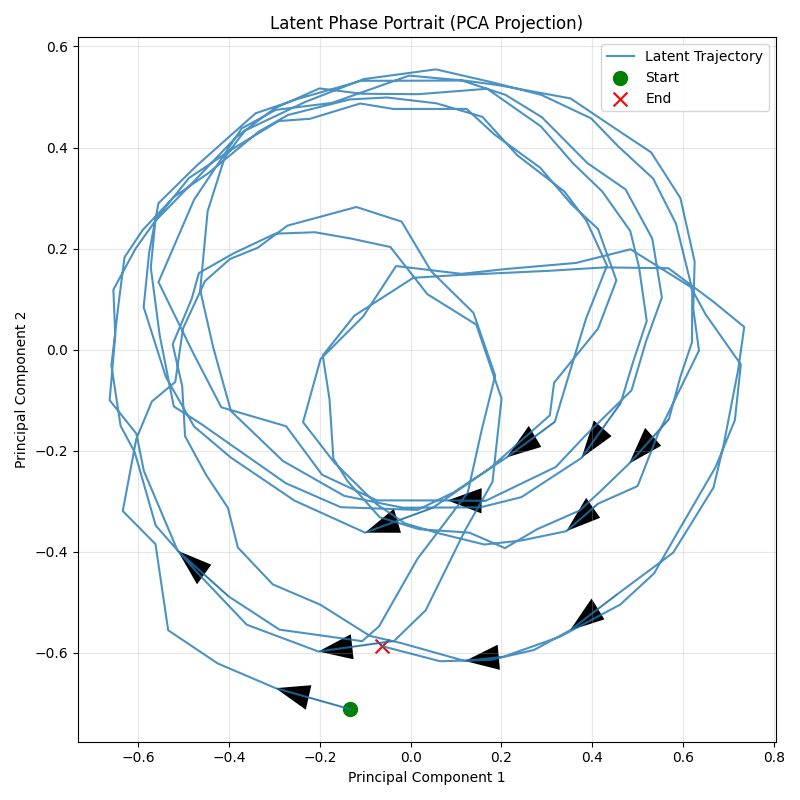
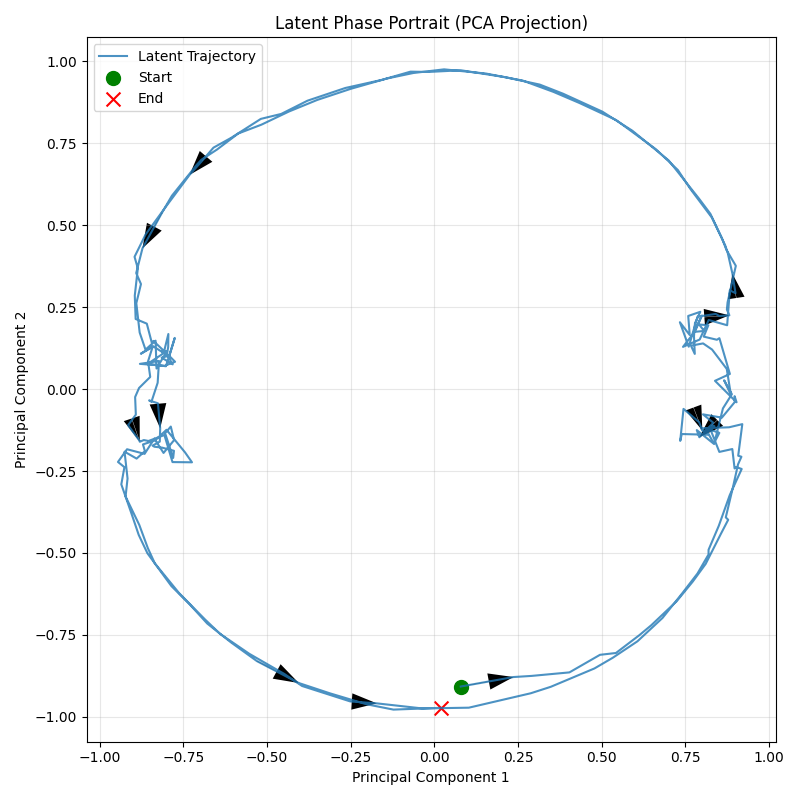
feat: more stable imputation.

diff --git a/main.py b/main.py
@@ -51,48 +51,97 @@ class Dynamics(nn.Module):
     @nn.compact
     def __call__(self, z):
         # z has shape (batch, seq_len, latent_dim)
+        B, T, D = z.shape
 
         # 1. Power-Law Memory Integral (Causal Convolution)
-        # We need to process each latent dimension independently.
-        # Flax Conv expects (Batch, Length, Channels). We treat latent_dim as channels.
+        # Pre-calculate the memory force field.
         kernel = self.param(
             'memory_kernel',
             lambda key, shape, dtype: get_fractional_kernel(self.memory_gamma, self.memory_kernel_size),
             (self.memory_kernel_size, 1, 1), jnp.float32
         )
-        # Apply causal convolution across the time dimension for each latent feature
         memory_force = nn.Conv(
             features=self.latent_dim,
             kernel_size=(self.memory_kernel_size,),
-            feature_group_count=self.latent_dim,  # Depthwise convolution
+            feature_group_count=self.latent_dim,
             padding='CAUSAL'
         )(z)
 
-        # 2. Projected Kuramoto Coupling (Attention-like mechanism)
-        q = nn.Dense(self.latent_dim, name="Q_proj")(z)
-        k = nn.Dense(self.latent_dim, name="K_proj")(z)
+        # 2. Prepare Kuramoto Components (Keys/Values)
+        # We treat the input sequence 'z' as the background field for the attention.
+        # Ideally, for RK4, the field should be dynamic, but for efficiency in parallel training,
+        # we assume the 'Keys' and 'Values' are fixed by the input trajectory,
+        # and only the 'Query' (the particle being evolved) changes during the RK4 substeps.
         
-        q_hat = q / jnp.maximum(jnp.linalg.norm(q, axis=-1, keepdims=True), 1e-8)
+        k_proj_layer = nn.Dense(self.latent_dim, name="K_proj")
+        q_proj_layer = nn.Dense(self.latent_dim, name="Q_proj")
+        out_proj_layer = nn.Dense(self.latent_dim, name="Out_proj")
+
+        k = k_proj_layer(z)
         k_hat = k / jnp.maximum(jnp.linalg.norm(k, axis=-1, keepdims=True), 1e-8)
-
-        dots = jnp.einsum('btd,bTd->btT', q_hat, k_hat)
-        attn_weights = jnp.sin(dots)
-
-        kuramoto_force_raw = jnp.einsum('btT,bTd->btd', attn_weights, k_hat)
-        kuramoto_force = nn.Dense(self.latent_dim, name="Out_proj")(kuramoto_force_raw)
-
-        # 3. Combine forces and project to tangent space
-        combined_force = memory_force + kuramoto_force
         
-        dot_prod_vz = jnp.sum(combined_force * z, axis=-1, keepdims=True)
-        tangent_velocity = combined_force - dot_prod_vz * z
+        # Causal Mask for Attention
+        # mask[i, j] = 1 if i >= j else 0
+        mask = jnp.tril(jnp.ones((T, T)))
+        mask = mask[None, :, :] # (1, T, T)
 
-        # 4. Integrate and project back to the manifold (Retraction)
-        z_next_ambient = z + tangent_velocity
-        norm = jnp.linalg.norm(z_next_ambient, axis=-1, keepdims=True)
-        z_dyn = z_next_ambient / jnp.maximum(norm, 1e-8)
+        # Define the Vector Field Function for RK4
+        # z_curr: (B, T, D) - The current estimate of the state at each time step
+        def vector_field(z_curr):
+            # Project z_curr to Query
+            q = q_proj_layer(z_curr)
+            q_hat = q / jnp.maximum(jnp.linalg.norm(q, axis=-1, keepdims=True), 1e-8)
+            
+            # Causal Attention: Query (Current) vs Keys (History/Context)
+            dots = jnp.einsum('btd,bTd->btT', q_hat, k_hat)
+            
+            # Apply Mask: Set future positions to -inf before softmax? 
+            # But this is Kuramoto (sin), not Softmax. 
+            # We just zero out the contributions from the future.
+            attn_weights = jnp.sin(dots) * mask
+            
+            # Compute Force
+            kuramoto_force_raw = jnp.einsum('btT,bTd->btd', attn_weights, k_hat)
+            kuramoto_force = out_proj_layer(kuramoto_force_raw)
+            
+            total_force = memory_force + kuramoto_force
+            
+            # Project to Tangent Space of z_curr
+            dot_prod = jnp.sum(total_force * z_curr, axis=-1, keepdims=True)
+            tangent_vel = total_force - dot_prod * z_curr
+            return tangent_vel
+
+        # 3. Projected RK4 Integration
+        h = 1.0 # Step size (1 time step)
         
-        return z_dyn
+        # Retraction Operator
+        def retract(z_base, v):
+            z_new = z_base + v
+            return z_new / jnp.maximum(jnp.linalg.norm(z_new, axis=-1, keepdims=True), 1e-8)
+
+        # RK4 Steps
+        # k1 = f(z)
+        k1 = vector_field(z)
+        
+        # k2 = f(Retract(z, h/2 * k1))
+        z_k2 = retract(z, 0.5 * h * k1)
+        k2 = vector_field(z_k2)
+        
+        # k3 = f(Retract(z, h/2 * k2))
+        z_k3 = retract(z, 0.5 * h * k2)
+        k3 = vector_field(z_k3)
+        
+        # k4 = f(Retract(z, h * k3))
+        z_k4 = retract(z, h * k3)
+        k4 = vector_field(z_k4)
+        
+        # Combine
+        v_final = (h / 6.0) * (k1 + 2*k2 + 2*k3 + k4)
+        
+        # Final Retraction
+        z_next = retract(z, v_final)
+        
+        return z_next
 
 class ManifoldFormer(nn.Module):
     input_dim: int
@@ -101,6 +150,7 @@ class ManifoldFormer(nn.Module):
     def setup(self):
         self.vae = VAE(self.input_dim, self.latent_dim)
         self.dynamics = Dynamics(self.latent_dim)
+        self.iso_scale = self.param('iso_scale', nn.initializers.ones, (1,))
 
     def __call__(self, x):
         recon_vae, z = self.vae(x)
@@ -109,22 +159,32 @@ class ManifoldFormer(nn.Module):
         # Decode the dynamic state
         out = self.vae.decode(z_dyn)
         
-        return out, recon_vae, z, z_dyn
+        return out, recon_vae, z, z_dyn, self.iso_scale
 
 # --- Loss Function ---
 
 def loss_fn(params, state, x, y):
-    pred, recon_vae, z, z_dyn = state.apply_fn({'params': params}, x)
+    pred, recon_vae, z, z_dyn, iso_scale = state.apply_fn({'params': params}, x)
     
     l_recon = jnp.mean((pred - y) ** 2)
     l_recon_vae = jnp.mean((recon_vae - x) ** 2)
     
     # Geodesic smoothness on the sphere
-    dot_product = jnp.sum(z_dyn * z, axis=-1).clip(-1.0, 1.0)
+    dot_product = jnp.sum(z_dyn * z, axis=-1).clip(-1.0 + 1e-6, 1.0 - 1e-6)
     geodesic_dist = jnp.arccos(dot_product)
     l_smooth = jnp.mean(geodesic_dist ** 2)
     
-    return l_recon + l_recon_vae + 0.1 * l_smooth
+    # Scaled Isometry Loss
+    # Input distances (Euclidean)
+    dist_x = jnp.sqrt(jnp.sum((x[:, :, None, :] - x[:, None, :, :]) ** 2, axis=-1) + 1e-8)
+    
+    # Latent distances (Geodesic)
+    dot_z = jnp.einsum('btd,bTd->btT', z, z).clip(-1.0 + 1e-6, 1.0 - 1e-6)
+    dist_z = jnp.arccos(dot_z)
+    
+    l_iso = jnp.mean((iso_scale * dist_z - dist_x) ** 2)
+    
+    return l_recon + l_recon_vae + 0.1 * l_smooth + 0.01 * l_iso
 
 # --- Data Generation ---
 
